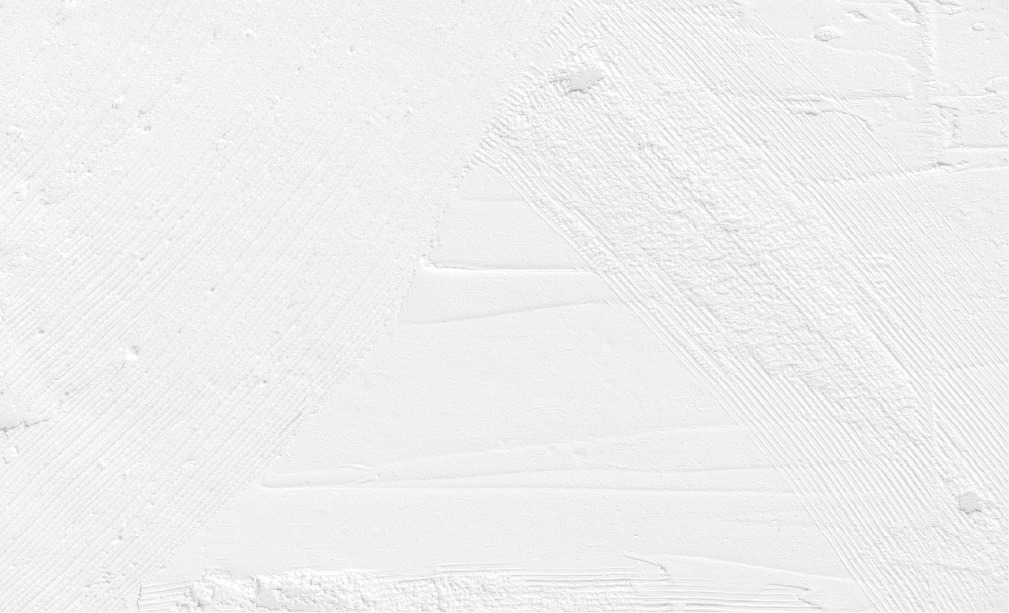
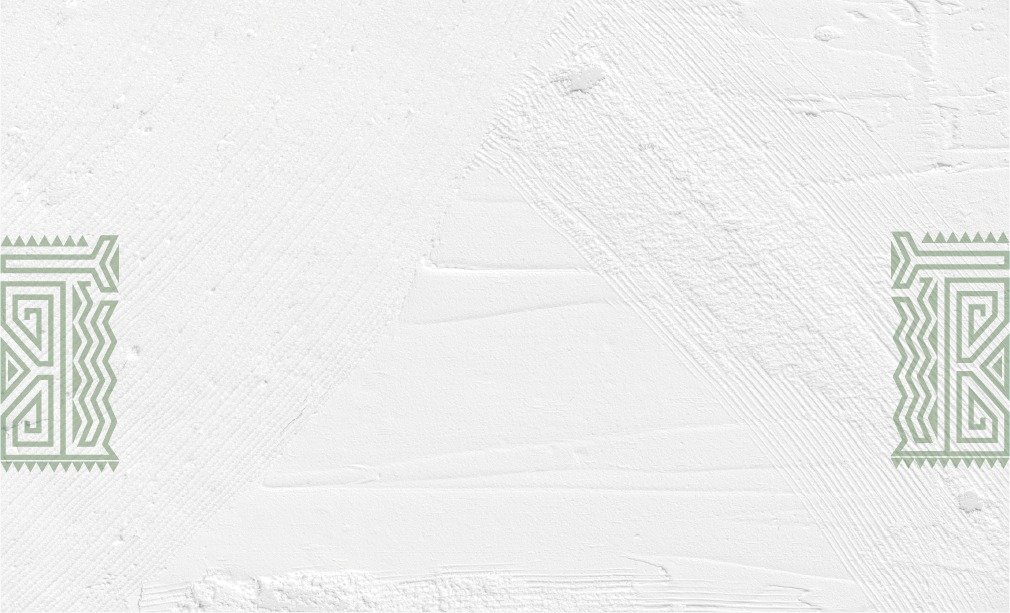
New Background

Changed region(s): [[0.8603, 0.3719, 1.0, 0.7749], [0.0, 0.3719, 0.1229, 0.7749]]

diff --git a/ClientArsogam/src/pages/static/styles/khowUs.css b/ClientArsogam/src/pages/static/styles/khowUs.css
@@ -8,7 +8,9 @@
 
 .sectionKhowUs{
     background-image: url('../img/background.jpeg');
-    padding: 200px;
+    background-repeat: repeat;
+    background-size: cover;
+    padding: 250px;
     padding-bottom: 100px;
     padding-top: 8%;
 }
@@ -38,6 +40,7 @@
 @media (max-width:1800px) {
     .sectionKhowUs{
         padding-top: 15%;
+        background-image: url('../img/backgroundResponsive.jpeg');
     }
 }
 

diff --git a/ClientArsogam/src/pages/static/styles/main.css b/ClientArsogam/src/pages/static/styles/main.css
@@ -9,7 +9,8 @@
 }
 
 .containerInfoHome{
-    background-image: url('../img/background.jpeg');
+    background-image: url('../img/backgroundResponsive.jpeg');
+    background-size:cover;
     padding-top: 20%;
     width: 50%;
     justify-content: center;
